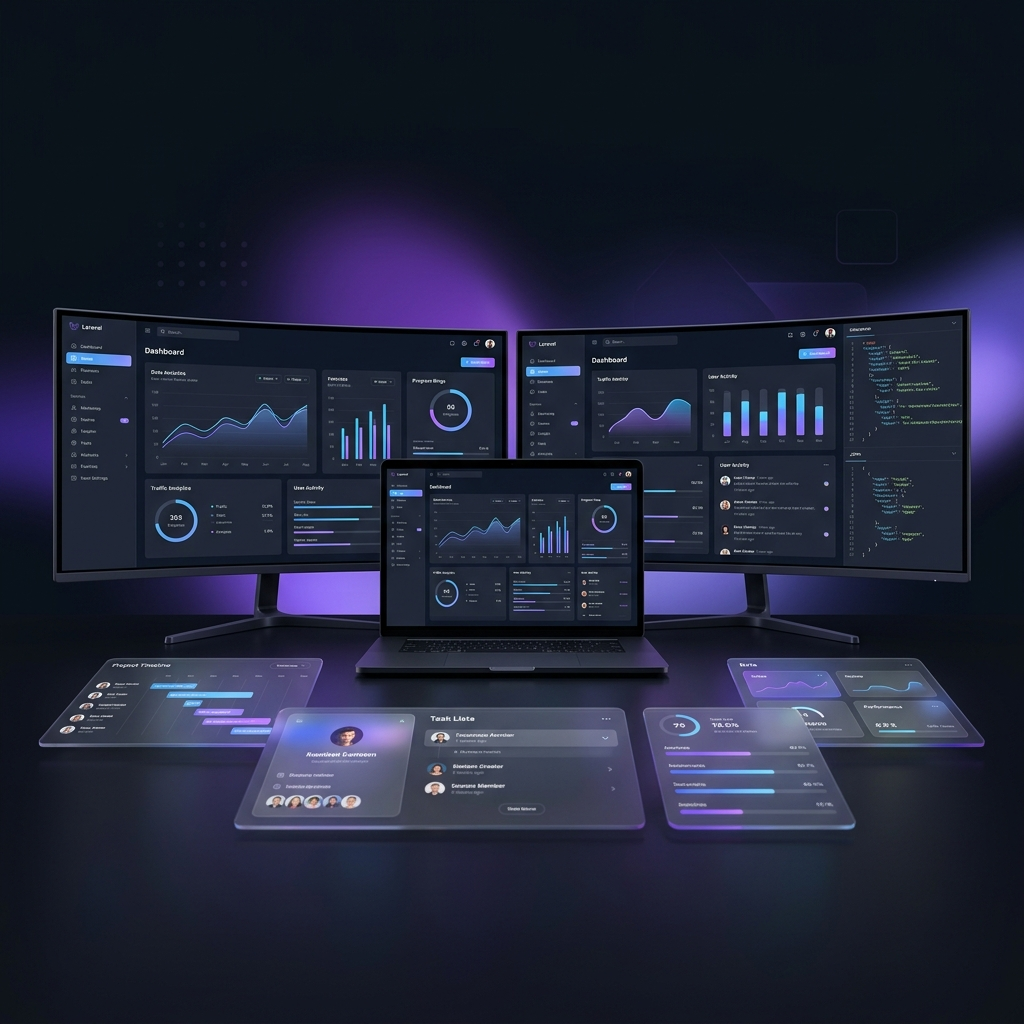
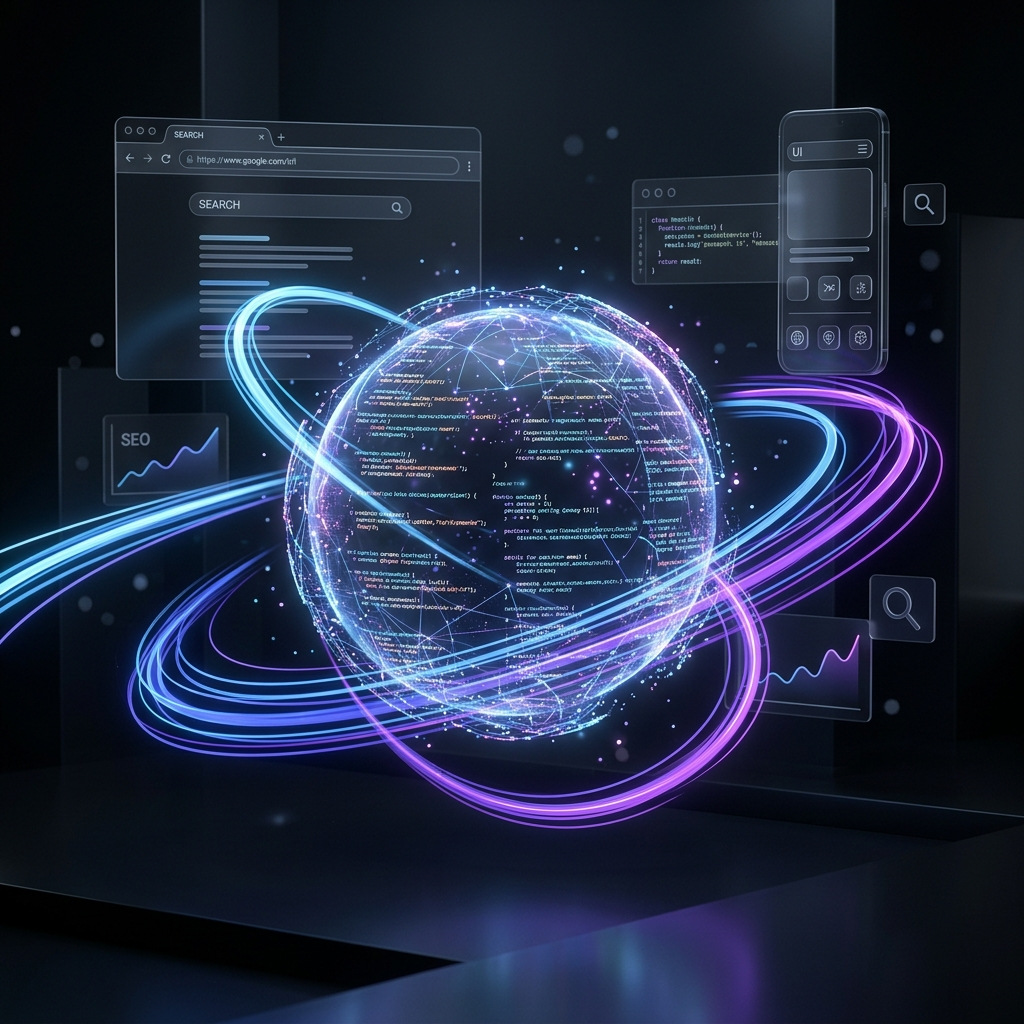
update home page image

diff --git a/public/js/script.js b/public/js/script.js
@@ -16,6 +16,7 @@ document.addEventListener('DOMContentLoaded', () => {
   initCaseStudyTabs();
   initMobileMenu();
   initContactModal();
+  initHero3DTilt();
 });
 
 /* ============================================================
@@ -939,4 +940,61 @@ function initMobileMenu() {
   menuBtn.addEventListener('click', () => menuDrawer.classList.remove('translate-x-full'));
   if (closeBtn) closeBtn.addEventListener('click', () => menuDrawer.classList.add('translate-x-full'));
   navLinks.forEach(link => link.addEventListener('click', () => menuDrawer.classList.add('translate-x-full')));
+}
+/* ============================================================
+   HERO 3D TILT EFFECT
+   ============================================================ */
+function initHero3DTilt() {
+  const card = document.getElementById('hero-3d-card');
+  if (!card) return;
+
+  const img = card.querySelector('img');
+  
+  // Create reflective shine overlay
+  const shine = document.createElement('div');
+  shine.className = 'absolute inset-0 bg-gradient-to-tr from-white/0 via-white/10 to-white/0 opacity-0 pointer-events-none z-30 transition-opacity duration-300';
+  card.appendChild(shine);
+
+  card.addEventListener('mousemove', (e) => {
+    const rect = card.getBoundingClientRect();
+    const x = e.clientX - rect.left;
+    const y = e.clientY - rect.top;
+    
+    const centerX = rect.width / 2;
+    const centerY = rect.height / 2;
+    
+    // Max rotation 12 degrees
+    const rotateX = ((centerY - y) / centerY) * 12;
+    const rotateY = ((x - centerX) / centerX) * 12;
+    
+    card.style.transition = 'transform 0.1s ease-out';
+    card.style.transform = `perspective(1000px) rotateX(${rotateX}deg) rotateY(${rotateY}deg) scale3d(1.02, 1.02, 1.02)`;
+    
+    if (img) {
+      // Parallax effect: image moves slightly in the opposite direction
+      const translateImgX = ((x - centerX) / centerX) * -6;
+      const translateImgY = ((y - centerY) / centerY) * -6;
+      img.style.transition = 'transform 0.1s ease-out';
+      img.style.transform = `scale(1.05) translate3d(${translateImgX}px, ${translateImgY}px, 0)`;
+    }
+    
+    // Move shine reflection overlay
+    const shineX = (x / rect.width) * 100;
+    const shineY = (y / rect.height) * 100;
+    shine.style.background = `radial-gradient(circle at ${shineX}% ${shineY}%, rgba(255,255,255,0.18) 0%, rgba(255,255,255,0) 70%)`;
+    shine.style.opacity = '1';
+  });
+
+  card.addEventListener('mouseleave', () => {
+    card.style.transition = 'transform 0.5s ease-out';
+    card.style.transform = 'perspective(1000px) rotateX(0deg) rotateY(0deg) scale3d(1, 1, 1)';
+    
+    if (img) {
+      img.style.transition = 'transform 0.5s ease-out';
+      img.style.transform = 'scale(1.05) translate3d(0, 0, 0)';
+    }
+    
+    shine.style.transition = 'opacity 0.5s ease-out';
+    shine.style.opacity = '0';
+  });
 }

diff --git a/resources/views/pages/home.blade.php b/resources/views/pages/home.blade.php
@@ -103,21 +103,21 @@
 
 <!-- Hero Dashboard Preview -->
 <section class="px-4 sm:px-6 lg:px-8 max-w-6xl mx-auto relative z-10 -mt-4 pb-4">
-  <div class="rounded-2xl overflow-hidden border border-slate-700/60 shadow-2xl shadow-sky-500/10 relative group">
-    <div class="absolute inset-0 bg-gradient-to-t from-slate-950/80 via-transparent to-transparent z-10 pointer-events-none"></div>
+  <div id="hero-3d-card" class="rounded-2xl overflow-hidden border border-slate-700/60 shadow-2xl shadow-sky-500/10 relative group aspect-[16/10] max-h-[300px] sm:max-h-[400px] md:max-h-[480px] w-full bg-slate-950 cursor-pointer" style="perspective: 1000px; transform-style: preserve-3d; will-change: transform;">
+    <div class="absolute inset-0 bg-gradient-to-t from-slate-950/80 via-transparent to-transparent z-20 pointer-events-none"></div>
     <img
       src="{{ asset('images/hero/home-hero.png') }}"
-      alt="Tech Solution dashboard — Laravel web development, mobile app, and SEO analytics platform built for growing businesses"
-      class="w-full h-auto object-cover transition-transform duration-700 group-hover:scale-[1.02]"
+      alt="Tech Solution engineering — Laravel web development, mobile apps, and SEO optimization platforms built for growing businesses"
+      class="w-full h-full object-cover object-center scale-[1.05] relative z-10"
       width="1200"
-      height="675"
+      height="750"
       loading="eager"
       decoding="async"
     />
-    <div class="absolute bottom-4 left-4 right-4 z-20 flex items-center justify-between">
+    <div class="absolute bottom-4 left-4 right-4 z-30 flex items-center justify-between">
       <span class="inline-flex items-center gap-1.5 px-3 py-1.5 rounded-full bg-slate-900/90 backdrop-blur-sm border border-slate-700/60 text-xs text-slate-300">
         <span class="w-2 h-2 rounded-full bg-emerald-400 animate-pulse"></span>
-        Live Platform Preview
+        Core Capabilities Overview
       </span>
       <a href="#services" class="px-3 py-1.5 rounded-full bg-sky-500/20 backdrop-blur-sm border border-sky-500/30 text-xs text-sky-400 font-semibold hover:bg-sky-500/30 transition-all">
         Explore Services →